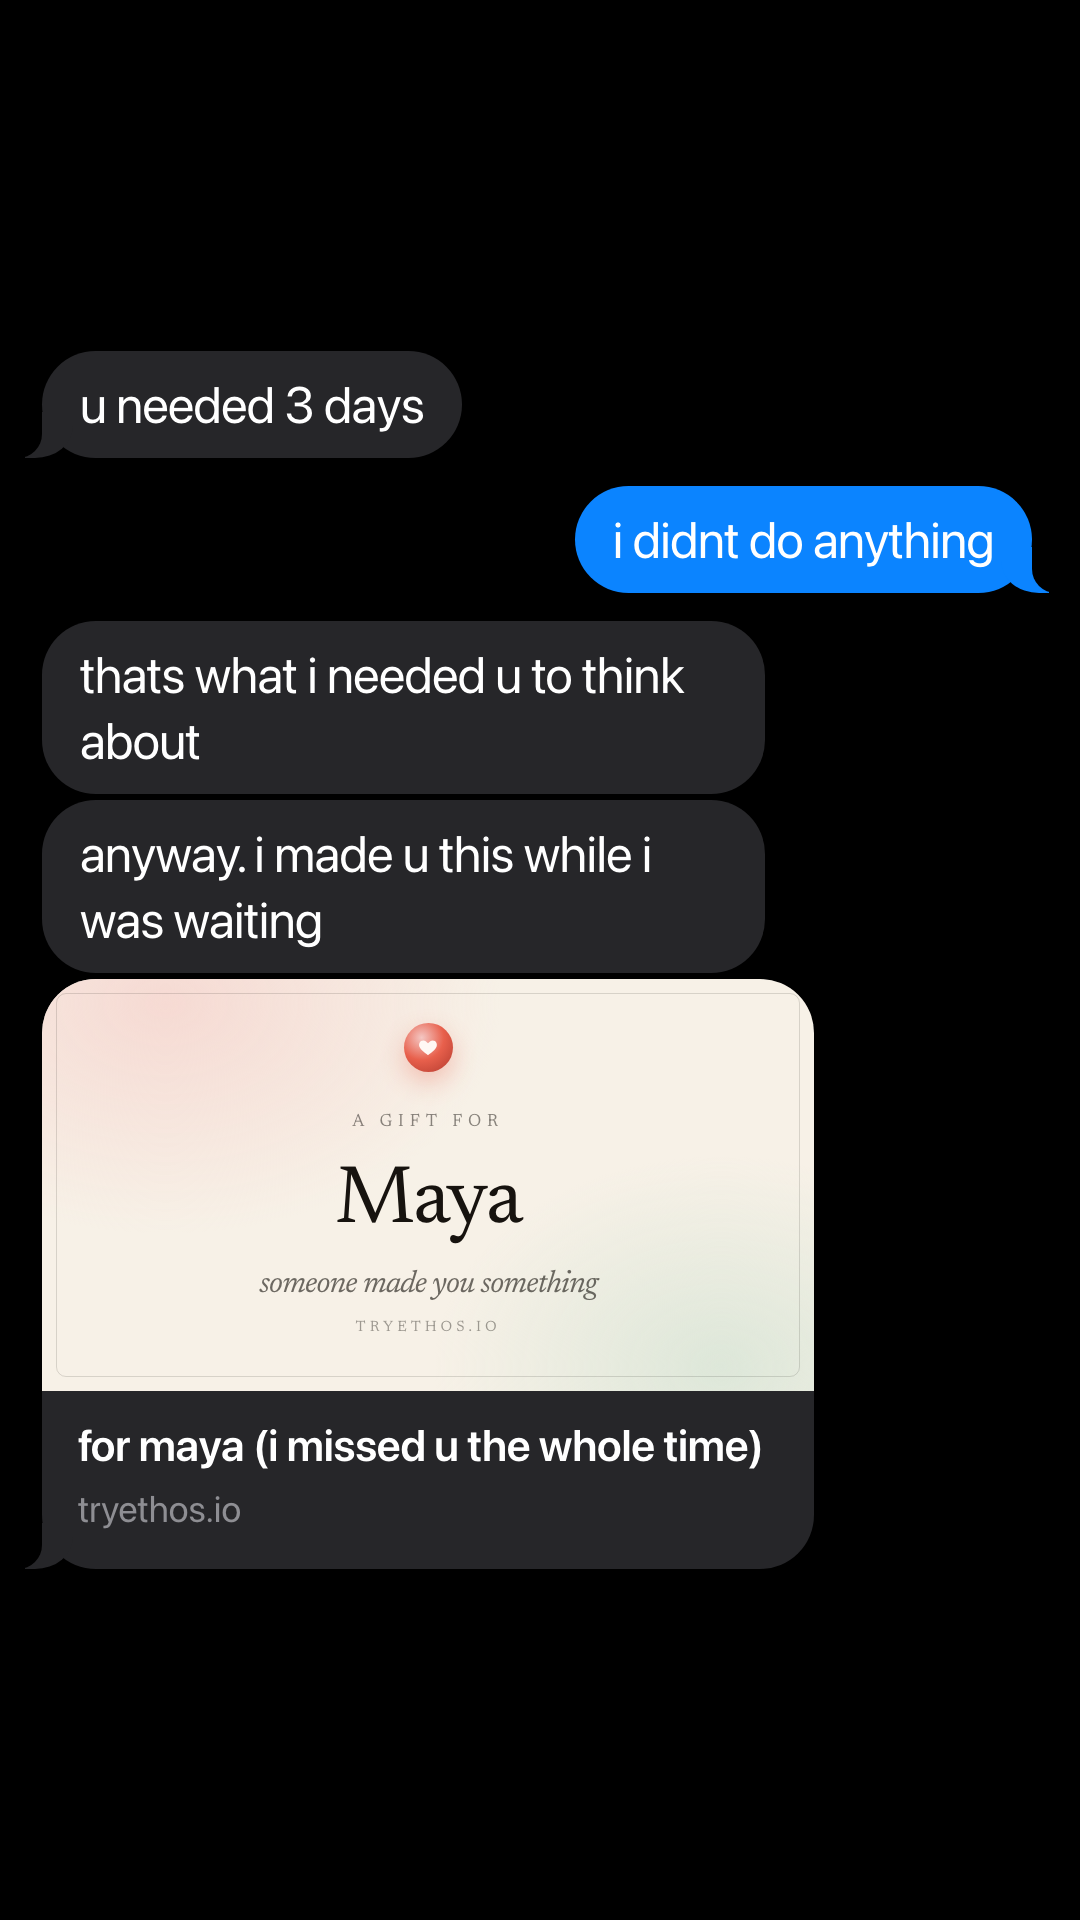
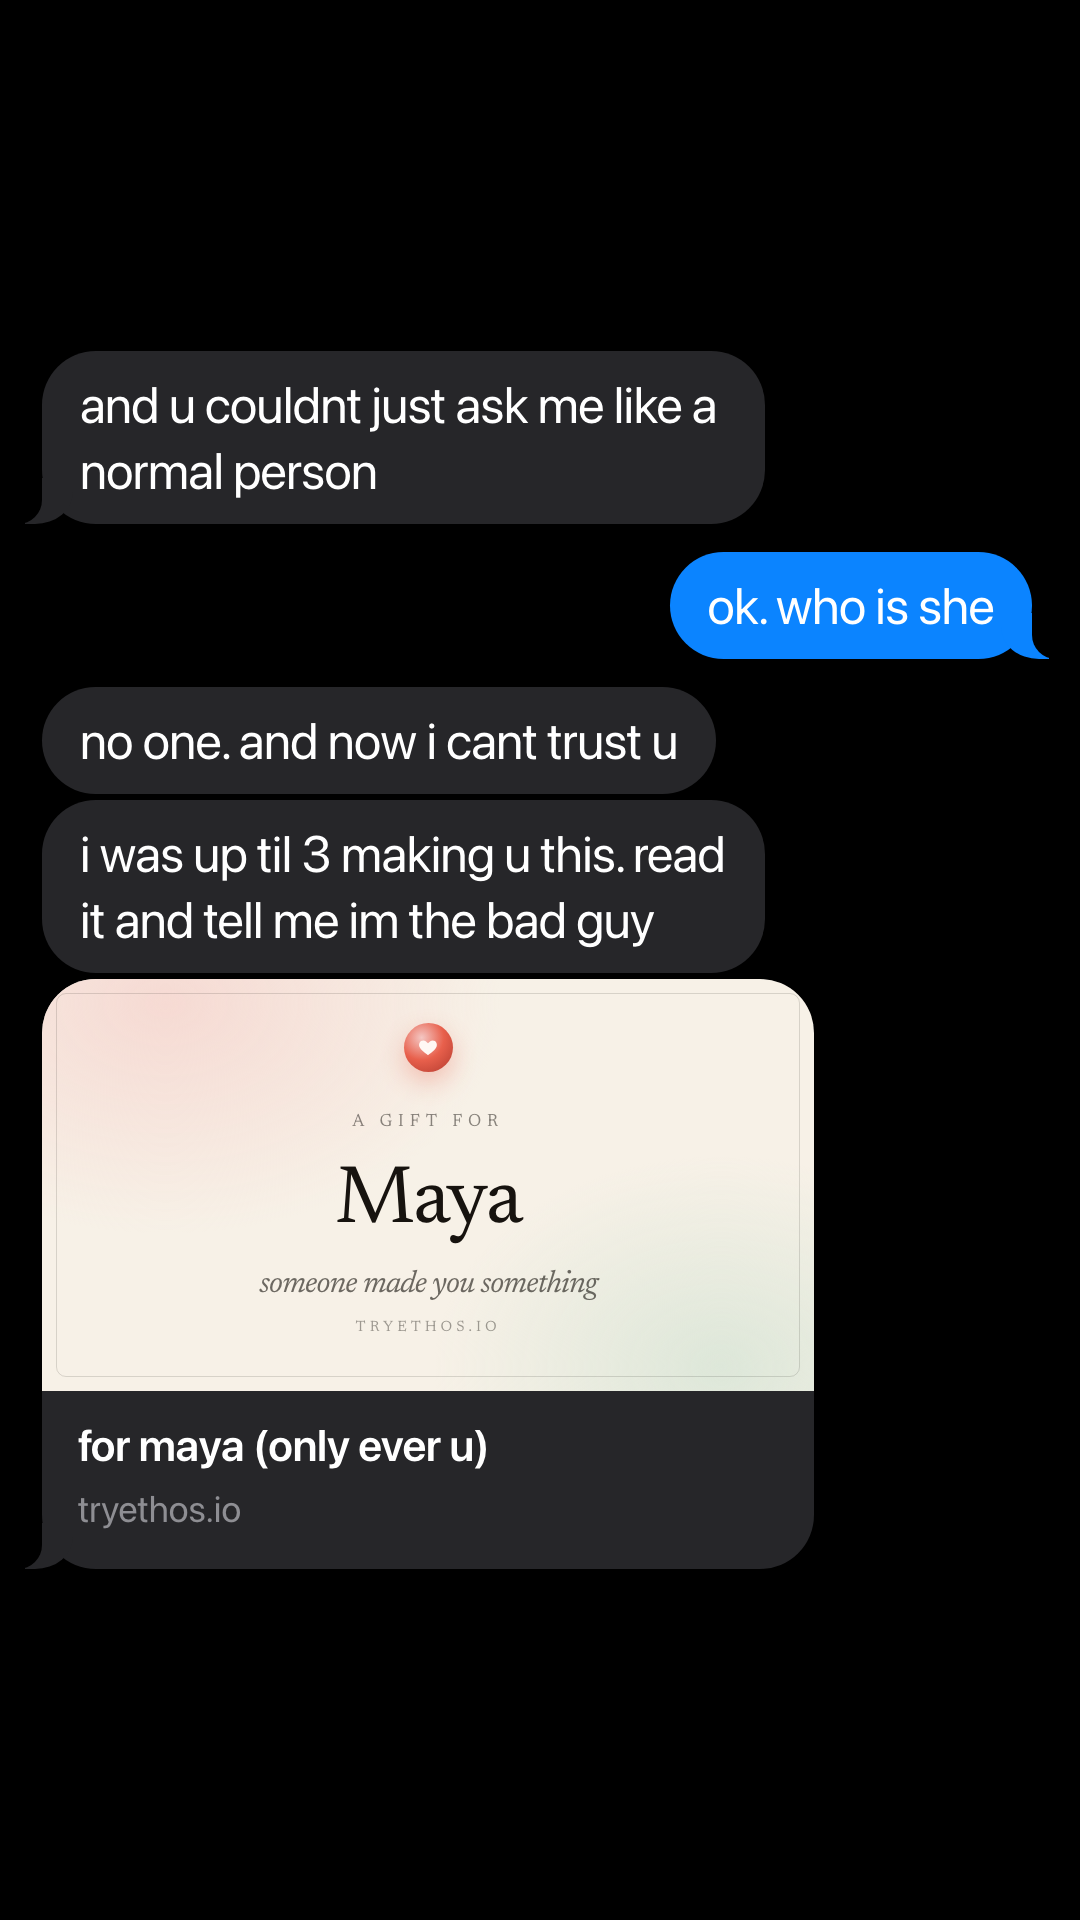
marketing: 176 rewritten as a cheating story — gym jess, gaslighting, and she's been talking to jess

Changed region(s): [[0.0306, 0.1562, 0.9778, 0.5], [0.2444, 0.75, 0.7028, 0.7812]]

diff --git a/docs/marketing/tiktok-176/SCRIPT.md b/docs/marketing/tiktok-176/SCRIPT.md
@@ -1,26 +1,26 @@
-# 176 · i was giving u space
+# 176 · u went through my phone
 
 **Shape:** 149's shape, the one that did 1.1M — **no text typed over any slide**. Two chat slides,
 the gift opened over five to seven frames, two chat slides. Ten or eleven in all.
-**His tactic:** the silent treatment, called space. **Who posts:** Maya (blue). Marco made the gift (grey).
+**His tactic:** a 2am "last night was fun", turned into her crime: gaslighting ("are u done being crazy"), three days of silence called space, the gift as a guilt trip. **Who posts:** Maya (blue). Marco made the gift (grey).
 **Post:** 23:52 UK, and answer comments for the first hour. Never two of this register in a row.
 
 ## The engine
 
-- **Against him:** three days of silence, then he calls it space and makes her apologise for it.
-- **Against her:** she has been logging every silent treatment in a spreadsheet since march, with an average.
+- **Against him:** "gym jess" texted him "last night was fun" at 2am, and he made her the one who broke the trust: three days of silence, "other girls wouldve just said thank u", "i forgive u".
+- **Against her:** she went through his phone, then messaged the girl the same night, and the two of them have been talking for three days behind his back.
 
 Neither half of the room is wrong, so they argue with each other instead of with the post.
 
-**The object they'll demand:** the spreadsheet. It is named, it exists, and it is never handed over.
-**The last bubble:** "send me the spreadsheet maya", his demand with her name on it, so the thread ends
+**The object they'll demand:** what gym jess told her. It is named, it exists, and it is never handed over.
+**The last bubble:** "maya what did she tell u", his demand with her name on it, so the thread ends
 unresolved and the argument moves into the comments.
 
 ## The slides
 
 1. Chat, with the timestamp: his tactic, in his own words. Ends on the line slide 2 repeats.
 2. Chat: he justifies it, then the gift arrives as the answer. Link card last, at the bottom.
-3. **The gift, opened: five to seven frames.** Scrapbook: photos on every page, it looks like days of work. This is the part that sells. Capture with
+3. **The gift, opened: five to seven frames.** Scrapbook: their photos on every page, "only ever u". It has to look like nights of work, so the room fights over whether a man who made this is cheating. This is the part that sells. Capture with
    `scripts/tiktok-demo-frames.mjs` and drop them in as `{ "type": "photo", "src": "gift-1.png" }`.
 4. Chat: she folds. His softest, worst line lands here.
 5. Chat: her confession, in 149's rhythm: "marco" / the confession / "u what" / the detail that
@@ -28,18 +28,19 @@ unresolved and the argument moves into the comments.
 
 ## Caption
 
-he gave me the silent treatment for 3 days and called it space 😭 i have the data. whos worse
+he said i broke his trust by going through his phone 😭 he was right… right? (me and gym jess have been talking for 3 days)
 
 ## Pinned comment (in character, never a brand)
 
-it's tryethos, template Scrapbook. no im not sending the spreadsheet, he'd just argue with the numbers
+it's tryethos, template Scrapbook. no im not saying what jess told me. if i do he'll know what to delete
 
 ## Replies to have ready
 
-- To "WHATS THE LONGEST ONE": "11 days. over a parking space"
-- To "they're both insane": "yes"
-- To "post the spreadsheet": "no bc then he'd see the chart"
-- To "girl run": "i've thought about it. it's on a different tab"
+- To "WHAT DID JESS SAY": "she said to check his car too"
+- To "hes cheating": "he says shes no one"
+- To "u went through his phone tho": "i know. im sorry. id do it again"
+- To "gym jess is the real one": "shes actually so nice"
+- To "break up": "i made him a scrapbook back. its not finished"
 - To "what app": "tryethos"
 
 Never settle it. Never take his side or hers. The refusal always has a reason. There is no discount

diff --git a/docs/marketing/VIRAL-FORMULA.md b/docs/marketing/VIRAL-FORMULA.md
@@ -981,7 +981,7 @@ object the comments can demand, and his last bubble asking for it with her name 
 
 | | His tactic | Her crime, confessed | The object they'll demand | Last bubble |
 |---|---|---|---|---|
-| 176 | three days of silence, called "giving u space to think about what u did" | a spreadsheet of every silent treatment since march; his average is 2.6 days | the spreadsheet | "send me the spreadsheet maya" |
+| 176 | a 2am "last night was fun" from "gym jess", turned on her: "are u done being crazy", three days of silence, "other girls wouldve just said thank u" | she messaged gym jess the first night; they've been talking for three days | what jess told her | "maya what did she tell u" |
 | 177 | "its not me whos upset. its my mum" | she and his mum have texted every day since april; the mum says he wanted the football | what his mum said | "maya what did my mum say" |
 | 178 | "its not a curfew. i just cant sleep until ur home" | she set every clock in his flat fifteen minutes fast in april | which clocks | "maya which clocks" |
 | 179 | "im not telling u what to wear. id just change" | she changed back in the uber; jess's photos are on close friends, and he isn't | the photos from the uber | "send me the photos from the uber maya" |
